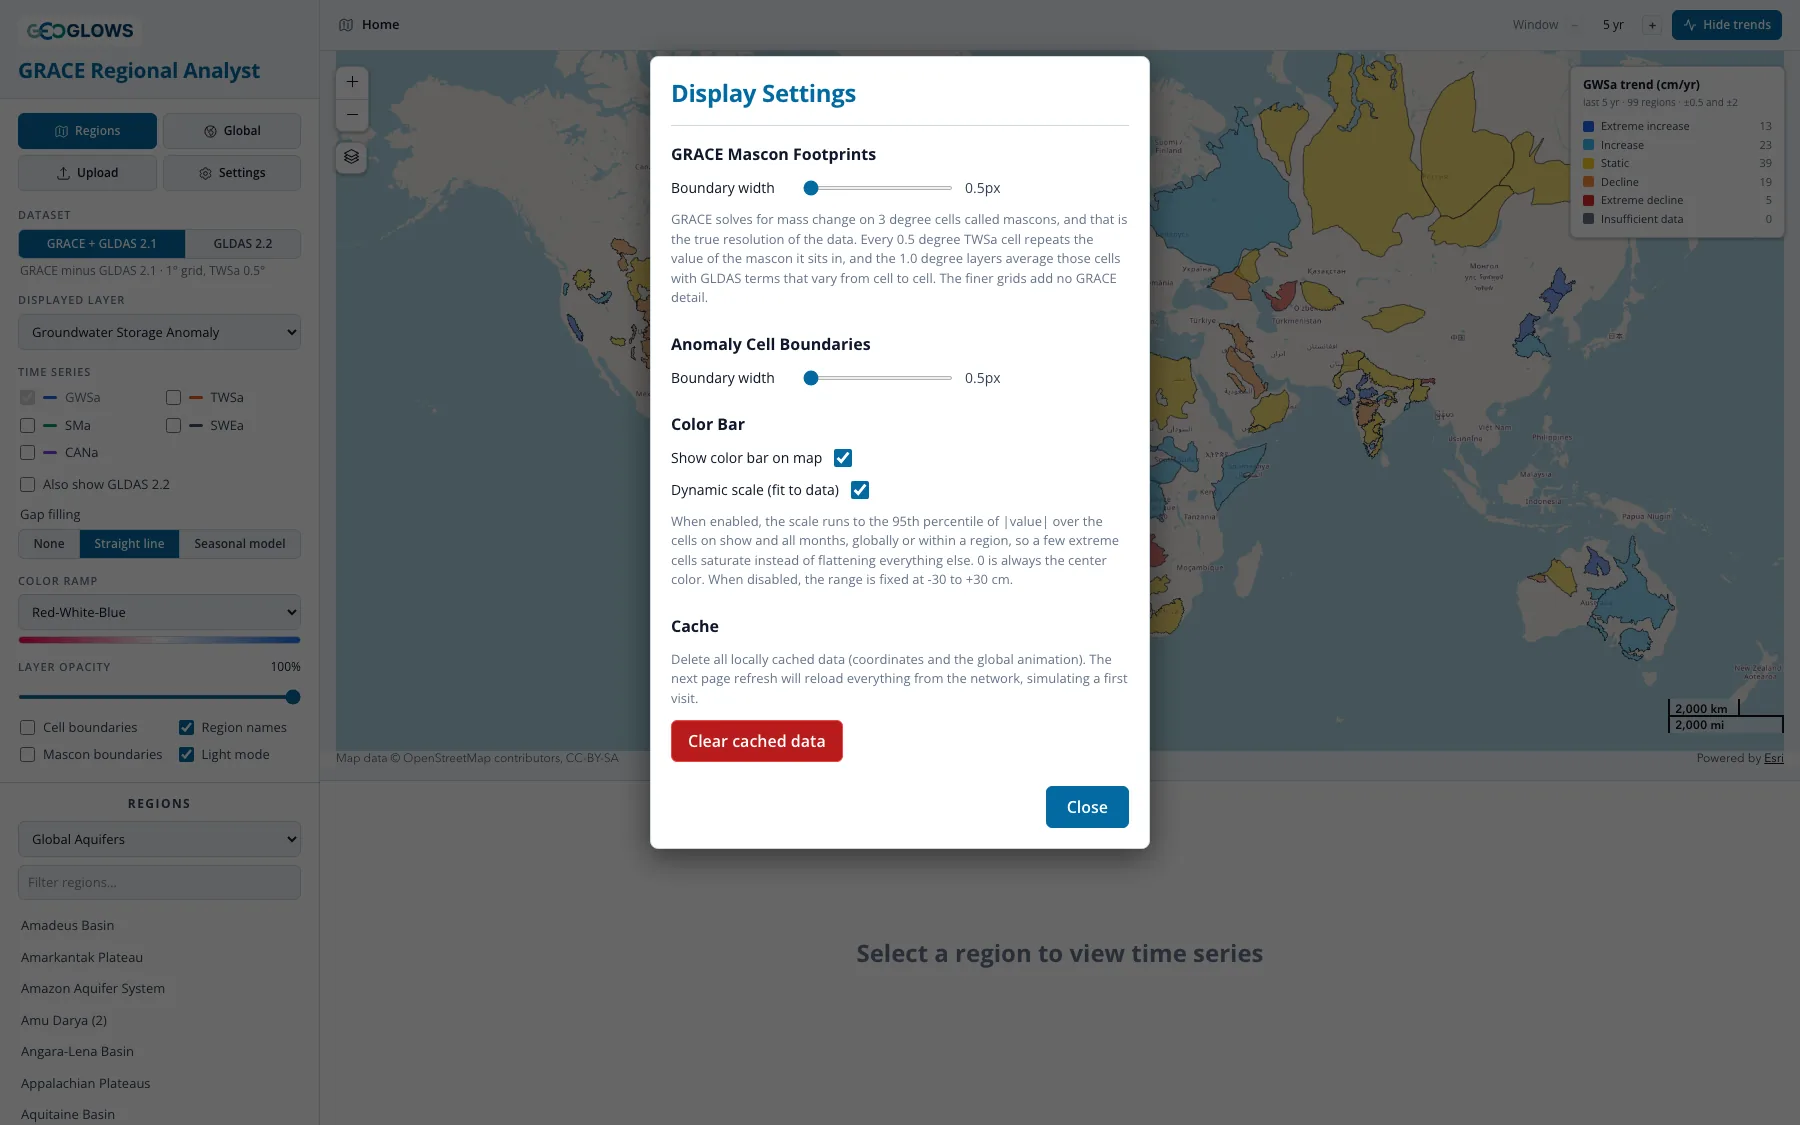
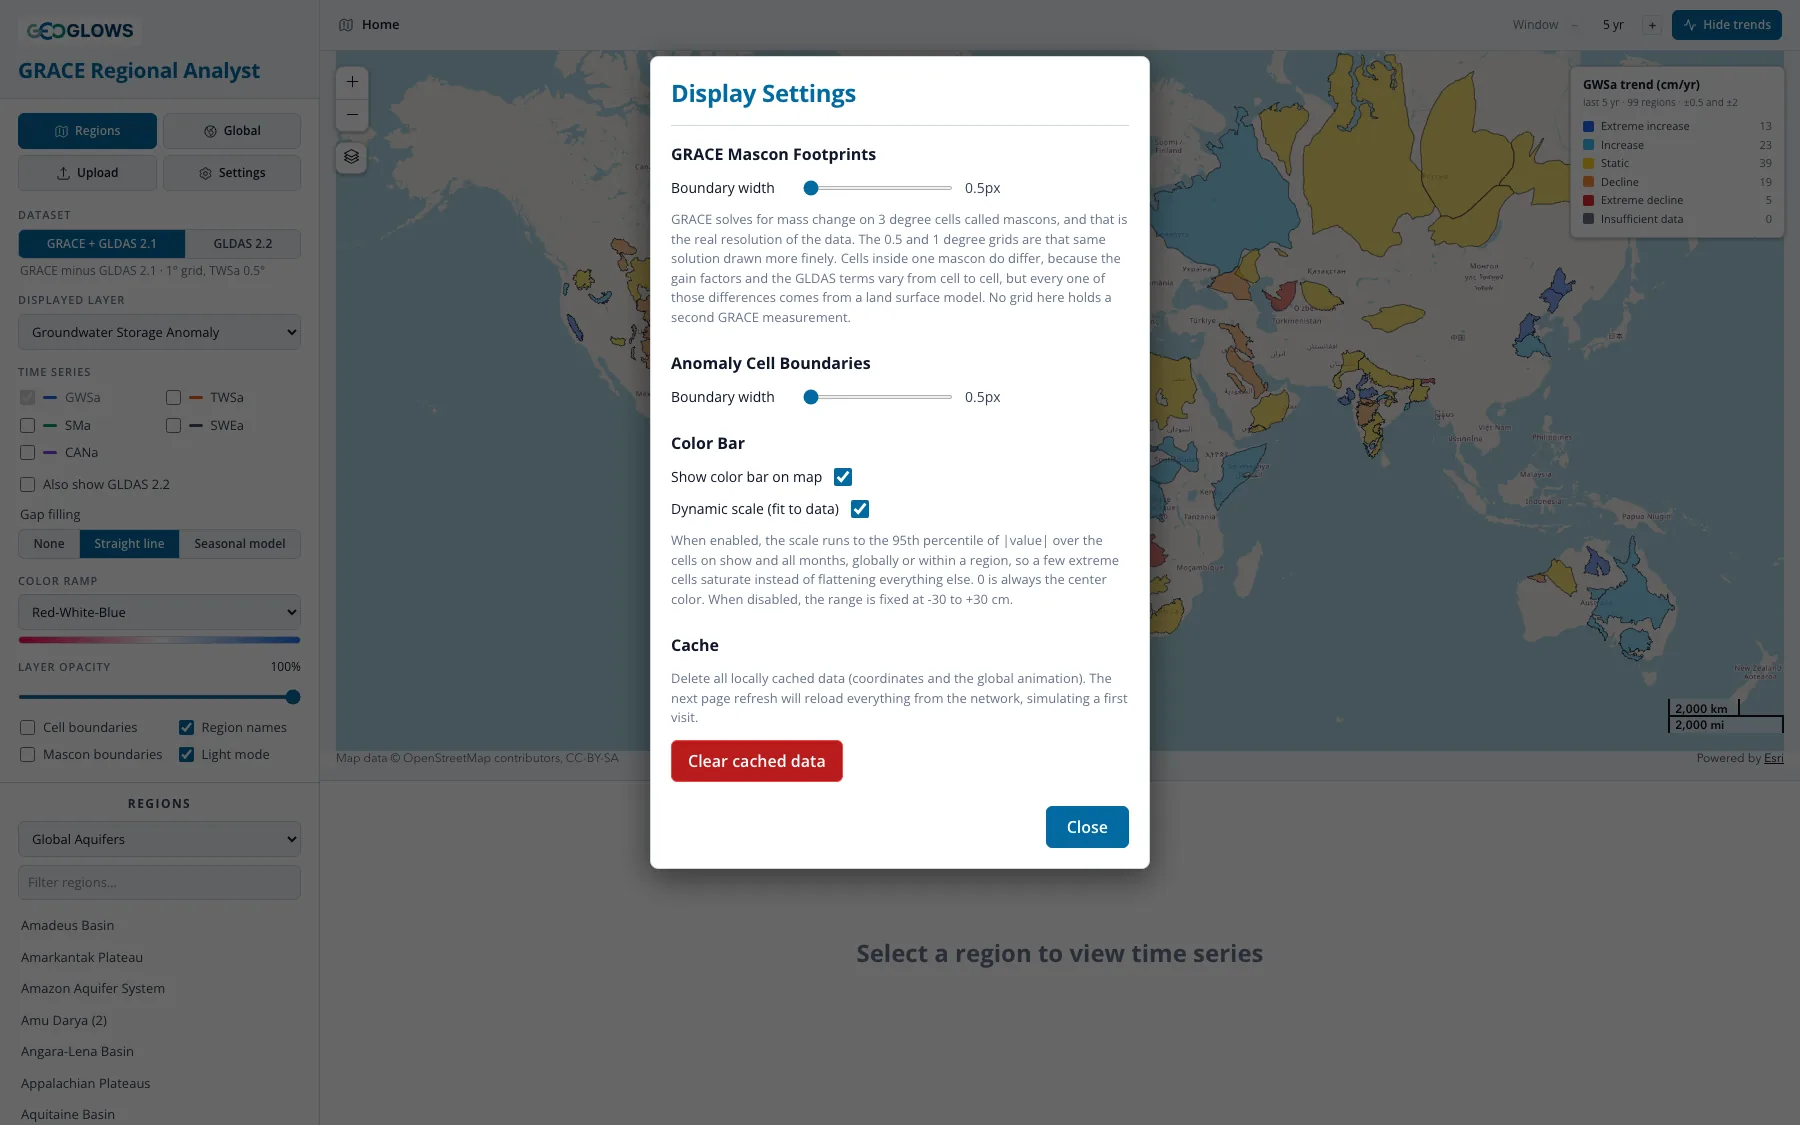
Correct six things the audit found in the English pages
- downloading-data: 12 x 400,000 / 100,000 is 48 km3, not 4.8, and
  48 km3 is 48,000 million m3.
- interface: dynamic scale was described as fitting the largest absolute
  value in a region. It is the 95th percentile in a region and globally
  alike, as main.js:509 and the app's own note both say.
- wtf-method: the recession line was described only as a least-squares
  fit, but the app ships "endpoints" as the default and the control that
  switches them was undocumented. Both modes are now described, the
  default named, and the four-month widening attributed to "fitted",
  which is the only mode it applies to.
- deriving-groundwater: a 3 degree mascon covers 36 cells of the 0.5
  degree grid only at the equator. Measured over the 1706 land mascons
  the median is 42, 30% are 36, and the largest covers 2160.
- global-view: the global screenshot is captioned September 2024 and
  shows 2002-04; the cell screenshot is captioned central Iran and the
  breadcrumb in it reads 37.50N, 48.50E, which is the northwest.
- gldas-2.1-vs-2.2 figure: the 2.1 route is not "1 degree everywhere".
  TWSa is served at 0.5.

Also retakes app-settings.webp, which was captured just before the
mascon note was corrected and still showed the old text ending "The
finer grids add no GRACE detail" -- the claim this branch exists to
remove.

Claude-Session: https://claude.ai/code/session_01Wxw5z6EJHSrer8Y72dcUYt

Changed region(s): [[0.3733, 0.1867, 0.6222, 0.7156], [0.3422, 0.6844, 0.6533, 0.7778]]

diff --git a/tools/make_figures.py b/tools/make_figures.py
@@ -191,7 +191,7 @@ def versions():
 
     b.append(panel(25, 612, 1150, 72))
     b.append(text(45, 644, "In the app", 18, "bold", "start", NAVY))
-    b.append(text(160, 644, "2.1 route: 1° everywhere, with an uncertainty band, and 35 months missing with GRACE", 16))
+    b.append(text(160, 644, "2.1 route: 1°, except TWSa at 0.5°, with an uncertainty band, and 35 months missing with GRACE", 16))
     b.append(text(160, 670, "2.2 route: 0.25° in a region and 1° globally, no band, no missing months", 16))
     svg("gldas-2.1-vs-2.2", "GLDAS 2.1 and 2.2 compared", W, H, "\n".join(b))
 

diff --git a/tools/make_screenshots.py b/tools/make_screenshots.py
@@ -180,7 +180,7 @@ def shot_global_cell(pw) -> None:
     b, pg = open_app(pw)
     go_global(pg)
     trends_off(pg)
-    # Central Iran, which the existing caption names.
+    # Northwest Iran, at 37.50N 48.50E -- a cell with a strong depletion trend.
     pg.mouse.click(1255, 330)
     pg.wait_for_selector("#timeseries-plot canvas", timeout=60_000)
     pg.wait_for_timeout(LOAD)

diff --git a/docs/grace/recharge/wtf-method.en.md b/docs/grace/recharge/wtf-method.en.md
@@ -97,9 +97,18 @@ choose a different starting month (see [Water Years and Picks](picks.md)).
 between the previous year's peak and this year's peak. S<sub>A</sub> is the previous year's peak. The first water year in the record has no
 previous peak, so its S<sub>A</sub> is the highest detrended month before its trough.
 
-**The recession line.** The line is a least-squares fit to the filled GWSa from S<sub>A</sub> to S<sub>B</sub>. When the trough comes less
-than four months after S<sub>A</sub>, the fit uses the four months ending at the trough instead, so a slope is never fitted to two or three
-points.
+**The recession line.** The line runs over the filled GWSa from S<sub>A</sub> down to S<sub>B</sub>, and the **Recession slope** control on the
+recharge page offers two ways to measure it:
+
+- **Endpoints** (the default) draws the straight line through S<sub>A</sub> and S<sub>B</sub>. Two months define it, so it always starts on
+  S<sub>A</sub> and meets the projection exactly at the trough.
+- **Fitted** is a least-squares fit over every month of the decline, which is what Barbosa et al. (2022) describe. Its ends land where the fit
+  puts them rather than on the picks. When the trough comes less than four months after S<sub>A</sub>, the fit uses the four months ending at
+  the trough instead, so a slope is never fitted to two or three points.
+
+The two agree whenever the fitted line sits the same distance from both ends of the decline, which is most years. The regional averages barely
+move between them — 3.2% on Iullemeden, 1.8% on the Central Valley — but a single water year can shift by 15%, and a fitted slope that comes out
+flat drops that year's drainage correction altogether.
 
 **Units.** GWSa is in centimeters of water, so R1 and R2 are in cm per year, averaged over the region. Multiplied by the area of the region
 they give a volume:

diff --git a/docs/grace/app/global-view.en.md b/docs/grace/app/global-view.en.md
@@ -9,7 +9,7 @@ The global map is on a 1° grid for both datasets, even though GLDAS 2.2 is nati
 browser for a single variable, which no amount of patience makes workable. The finer grid is read only inside a region, where there is a
 boundary to cut it down to; see [Regional View](regional-view.md#which-cells-are-averaged).
 
-![Global view of the groundwater storage anomaly in September 2024](../../static/images/grace/app-global.webp)
+![Global view of the groundwater storage anomaly in April 2002, the first month of the record](../../static/images/grace/app-global.webp)
 
 Press play on the time control to animate the record month by month. The global view plays faster than the regional view, about four months a
 second, and loops back to the start. The animation makes the big patterns easy to spot: the steady decline across northern India, the Middle
@@ -32,7 +32,7 @@ Click any land cell to plot its time series. The breadcrumb changes to the cell'
 ±1σ uncertainty band on the GRACE dataset; GLDAS 2.2 has no band (see [Regional View](regional-view.md#uncertainty)). The chart works as it does for a region (see [Regional View](regional-view.md#the-time-series-chart)), and the CSV download for a cell is
 named after its coordinates.
 
-![Time series for a single 1° cell in central Iran](../../static/images/grace/app-global-cell.webp)
+![Time series for a single 1° cell in northwest Iran](../../static/images/grace/app-global-cell.webp)
 
 A single cell is quick to look at, but remember that GRACE resolves about 3°, so the cell's TWSa rests on the same measurement as its
 neighbors in the same mascon. The gain factors give those neighbors different numbers, and that difference comes from a land surface model

diff --git a/docs/grace/app/interface.en.md b/docs/grace/app/interface.en.md
@@ -81,9 +81,9 @@ Click **Home** to return to the overview. On the right, **Analyze trends / Hide 
   section also carries a note on why a finer grid is not a finer measurement.
 - **Show color bar on map:** hide or show the color bar.
 - **Dynamic scale (fit to data):** with this on, the color scale stretches to fit the data you're looking at, so small anomalies remain visible.
-  In a region it fits the largest absolute value in the region's cells over the whole record; in the global view it fits the 95th percentile of
-  absolute values, so a few extreme cells don't wash out the rest of the map. Turn it off to use a fixed scale of −30 to +30 cm, which is
-  better when comparing screenshots of different regions.
+  It runs to the 95th percentile of absolute values over the cells on show and every month, in a region and in the global view alike, so a few
+  extreme cells saturate instead of flattening everything else. Turn it off to use a fixed scale of −30 to +30 cm, which is better when
+  comparing screenshots of different regions.
 - **Clear cached data:** delete the copy of the data the app keeps in your browser. The next visit downloads everything again. Use this if the
   app behaves oddly after a data update.
 

diff --git a/docs/grace/gldas/deriving-groundwater.en.md b/docs/grace/gldas/deriving-groundwater.en.md
@@ -66,7 +66,8 @@ that month. The 35 months GRACE is missing are missing here too, and the app's g
 
 ### Gain factors
 
-The mascon solution is natively 3°, and the 0.5° file repeats each mascon's value across all 36 of its cells, so the published grid on its own
+The mascon solution is natively 3°, and the 0.5° file repeats each mascon's value across every cell inside it — 36 at the equator, a median of
+42 over land, and more toward the poles, where a mascon of the same area spans more longitude — so the published grid on its own
 carries no detail finer than a mascon. JPL ships a grid of **gain factors** in the same file to recover some of that detail. They are derived by
 putting the CLM land surface model through the same processing GRACE goes through and estimating, cell by cell, the multiplier that restores the
 model's original amplitude. The correction is a single multiplication, with the factor constant in time:

diff --git a/docs/grace/app/downloading-data.en.md b/docs/grace/app/downloading-data.en.md
@@ -47,7 +47,7 @@ The anomalies are depths of water averaged over the region. Multiply by the regi
 ΔV (km³) = GWSa (cm) × Area (km²) / 100,000
 ```
 
-For example, a GWSa of −12 cm over a 400,000 km² aquifer is 12 × 400,000 / 100,000 = 4.8 km³ (4,800 million m³) less water than the 2004–2009
+For example, a GWSa of −12 cm over a 400,000 km² aquifer is 12 × 400,000 / 100,000 = 48 km³ (48,000 million m³) less water than the 2004–2009
 average. The change between two dates is the difference of their anomalies times the area, and a trend in cm/yr times the area gives a rate of
 loss or gain in km³/yr.
 
